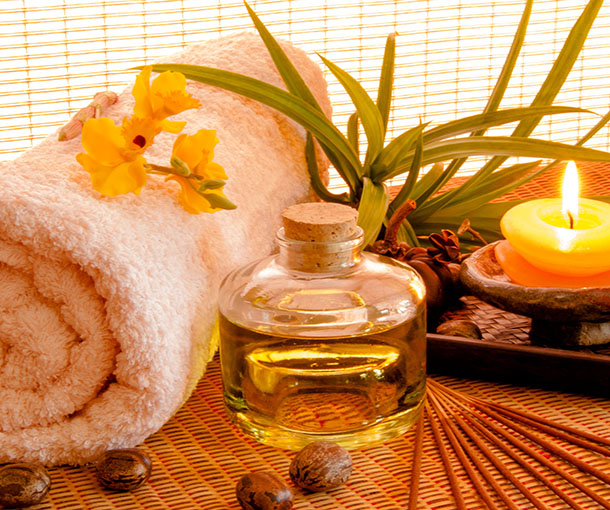
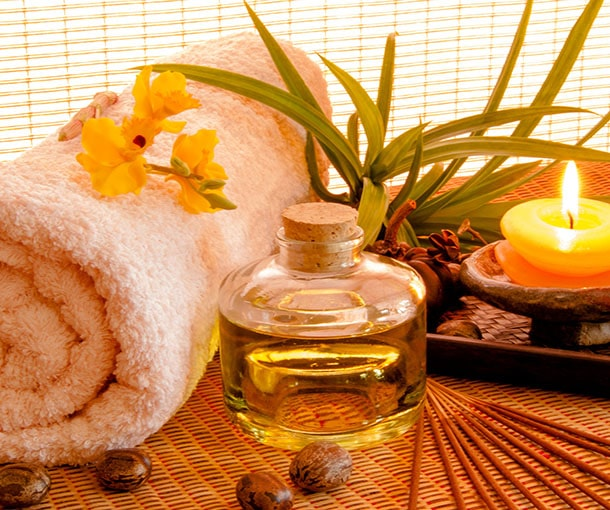
compressed images

diff --git a/assets/css/services.css b/assets/css/services.css
@@ -326,9 +326,9 @@ p {
     .section_services_massage .image_wrap::after {
       content: "";
       position: absolute;
-      left: 0;
       top: 0;
-      width: 100%;
+      left: 15px;
+      right: 15px;
       height: 100%;
       background-color: rgba(0, 0, 0, 0.3); }
     .section_services_massage .image_wrap .sale {
@@ -388,6 +388,9 @@ p {
       position: relative; }
       .section_services_massage .massage_item_wrap .image_wrap {
         padding: 0; }
+        .section_services_massage .massage_item_wrap .image_wrap::after {
+          left: 0px;
+          right: 0px; }
         .section_services_massage .massage_item_wrap .image_wrap .sale {
           transform: scale(0.5); }
       .section_services_massage .massage_item_wrap.row_reverse {

diff --git a/assets/scss/services.scss b/assets/scss/services.scss
@@ -78,13 +78,15 @@ p {
         display: flex;
     }
     .image_wrap {
+        // padding: 0;
         position: relative;
         &::after {
             content: "";
             position: absolute;
-            left: 0;
             top: 0;
-            width: 100%;
+            left: 15px;
+            right: 15px;
+            // width: 100%;
             height: 100%;
             background-color: rgba(#000, 0.3);
         }
@@ -167,6 +169,10 @@ p {
             position: relative;
             .image_wrap {
                 padding: 0;
+                &::after {
+                    left: 0px;
+                    right: 0px;
+                }
                 .sale {
                     transform: scale(.5);
                 }

diff --git a/pages/massage.html b/pages/massage.html
@@ -422,7 +422,7 @@
                         </p>
                     </div>
                     <div class="text-center">
-                        <a href="/pages/spa.html" class="brand_btn brand_btn__primary">SPA услуги</a>
+                        <a href="../pages/spa.html" class="brand_btn brand_btn__primary">SPA услуги</a>
                     </div>
                 </div>
             </div>
